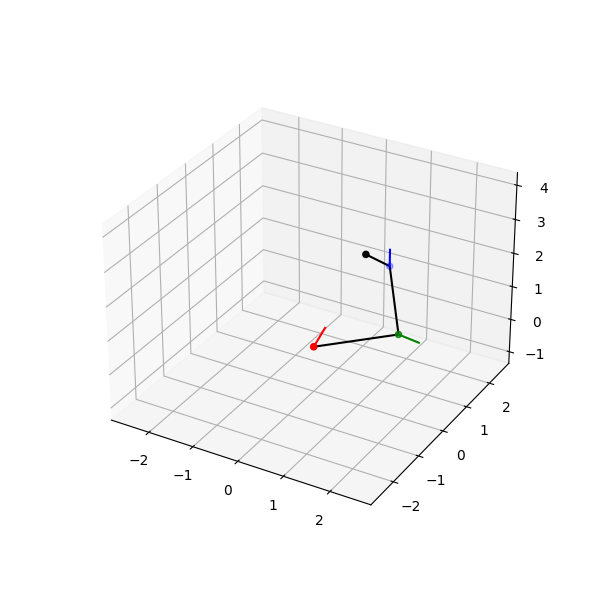
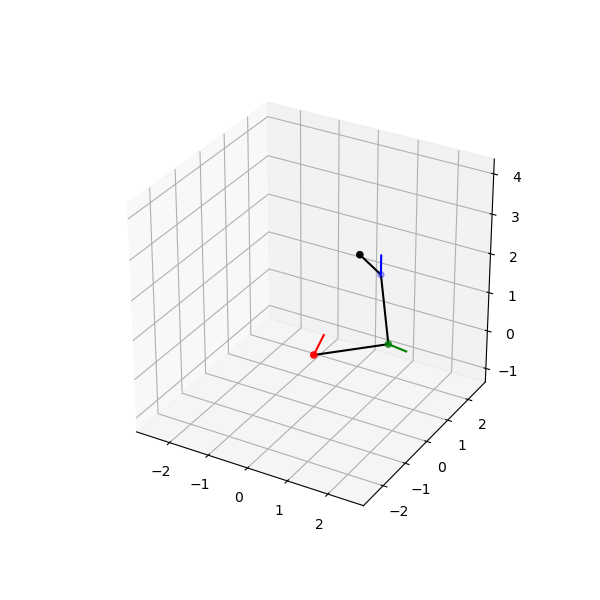
test run

diff --git a/run_test.py b/run_test.py
@@ -33,6 +33,8 @@ error = np.max(CLdata1 - CLdata, axis=1)
 simulation = solver.simulate(m, result[0])
 i = 0
 
+plot(*simulation[0])
+plt.show()
 
 for data in simulation:
     fig, ax = plot(*data)
